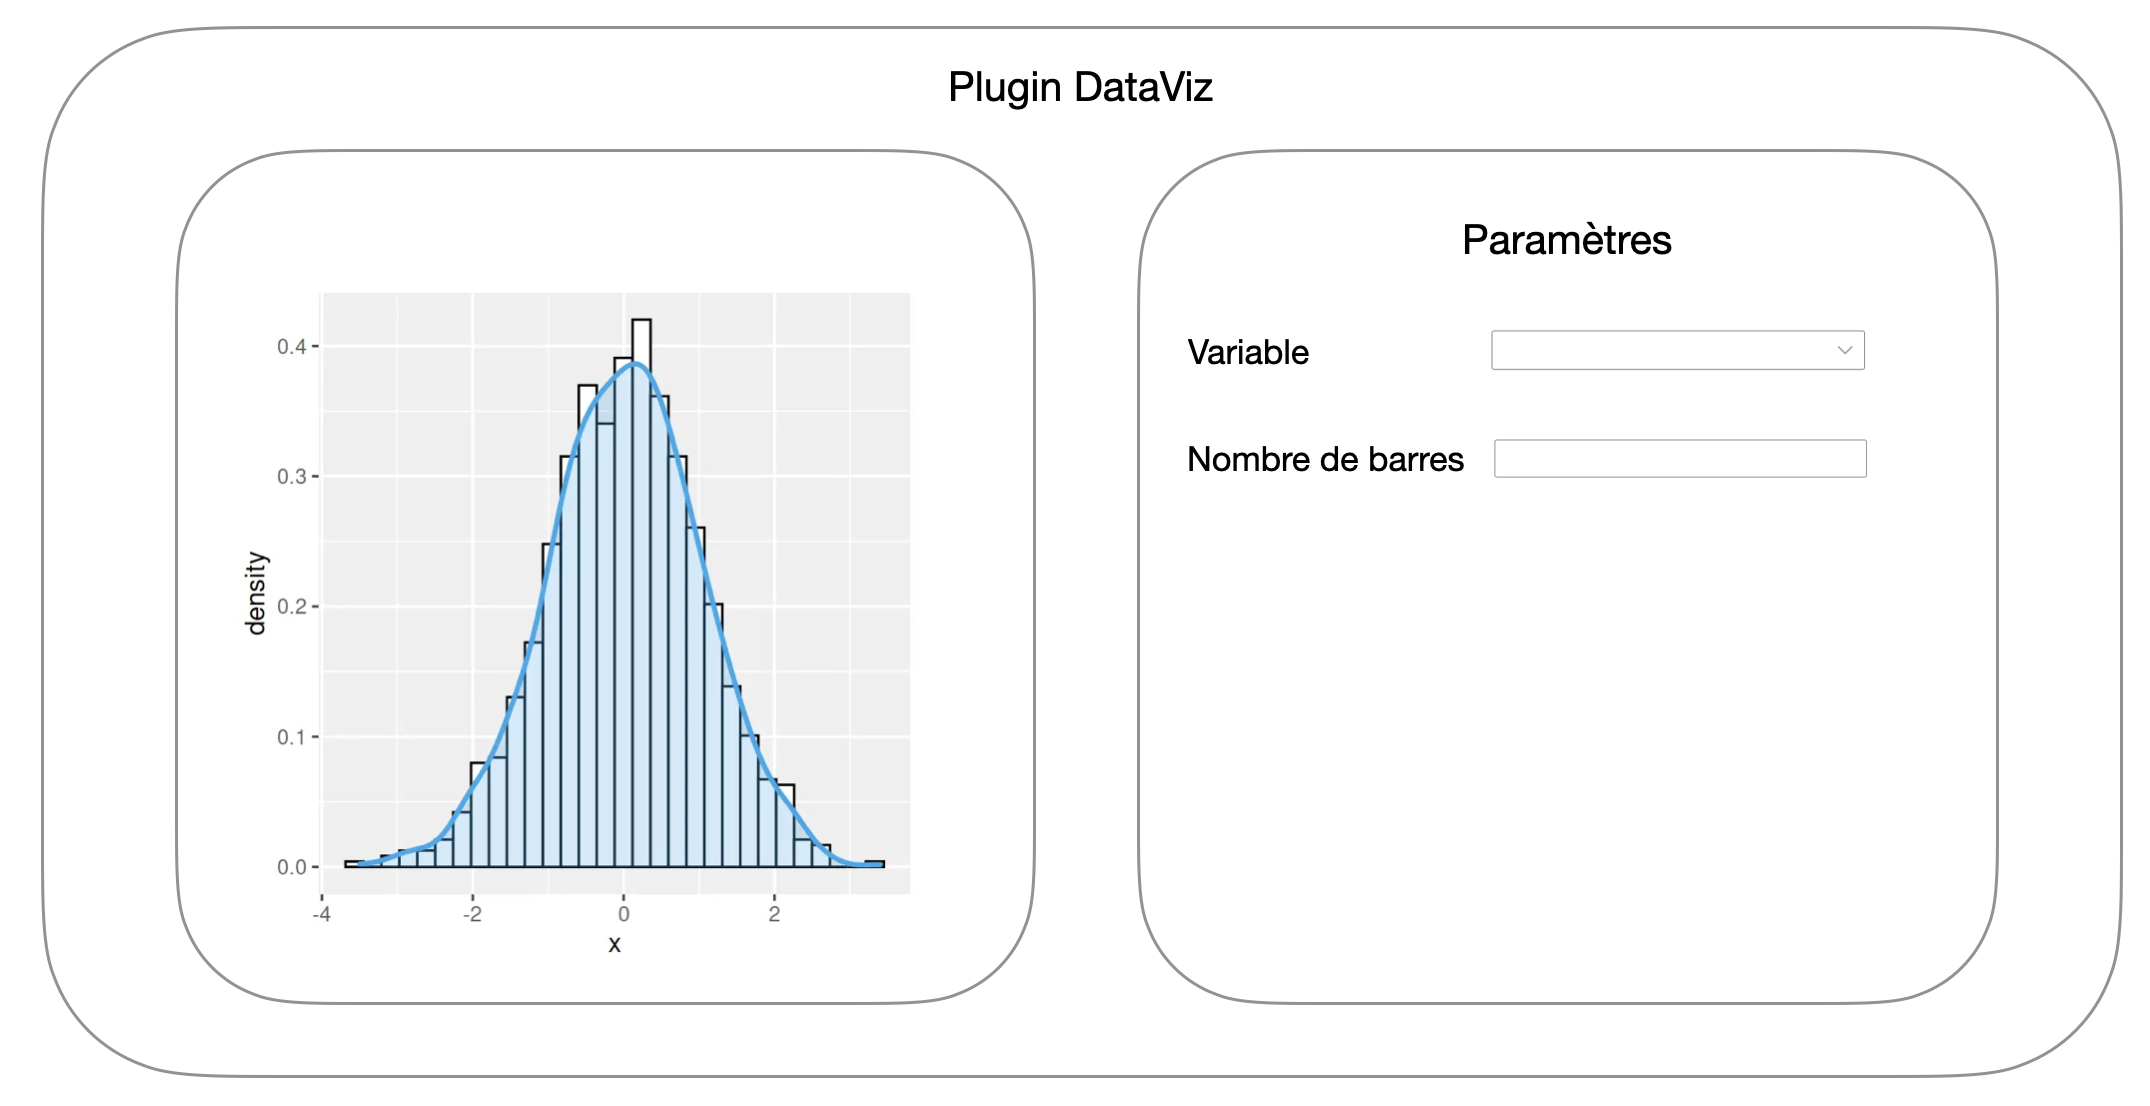
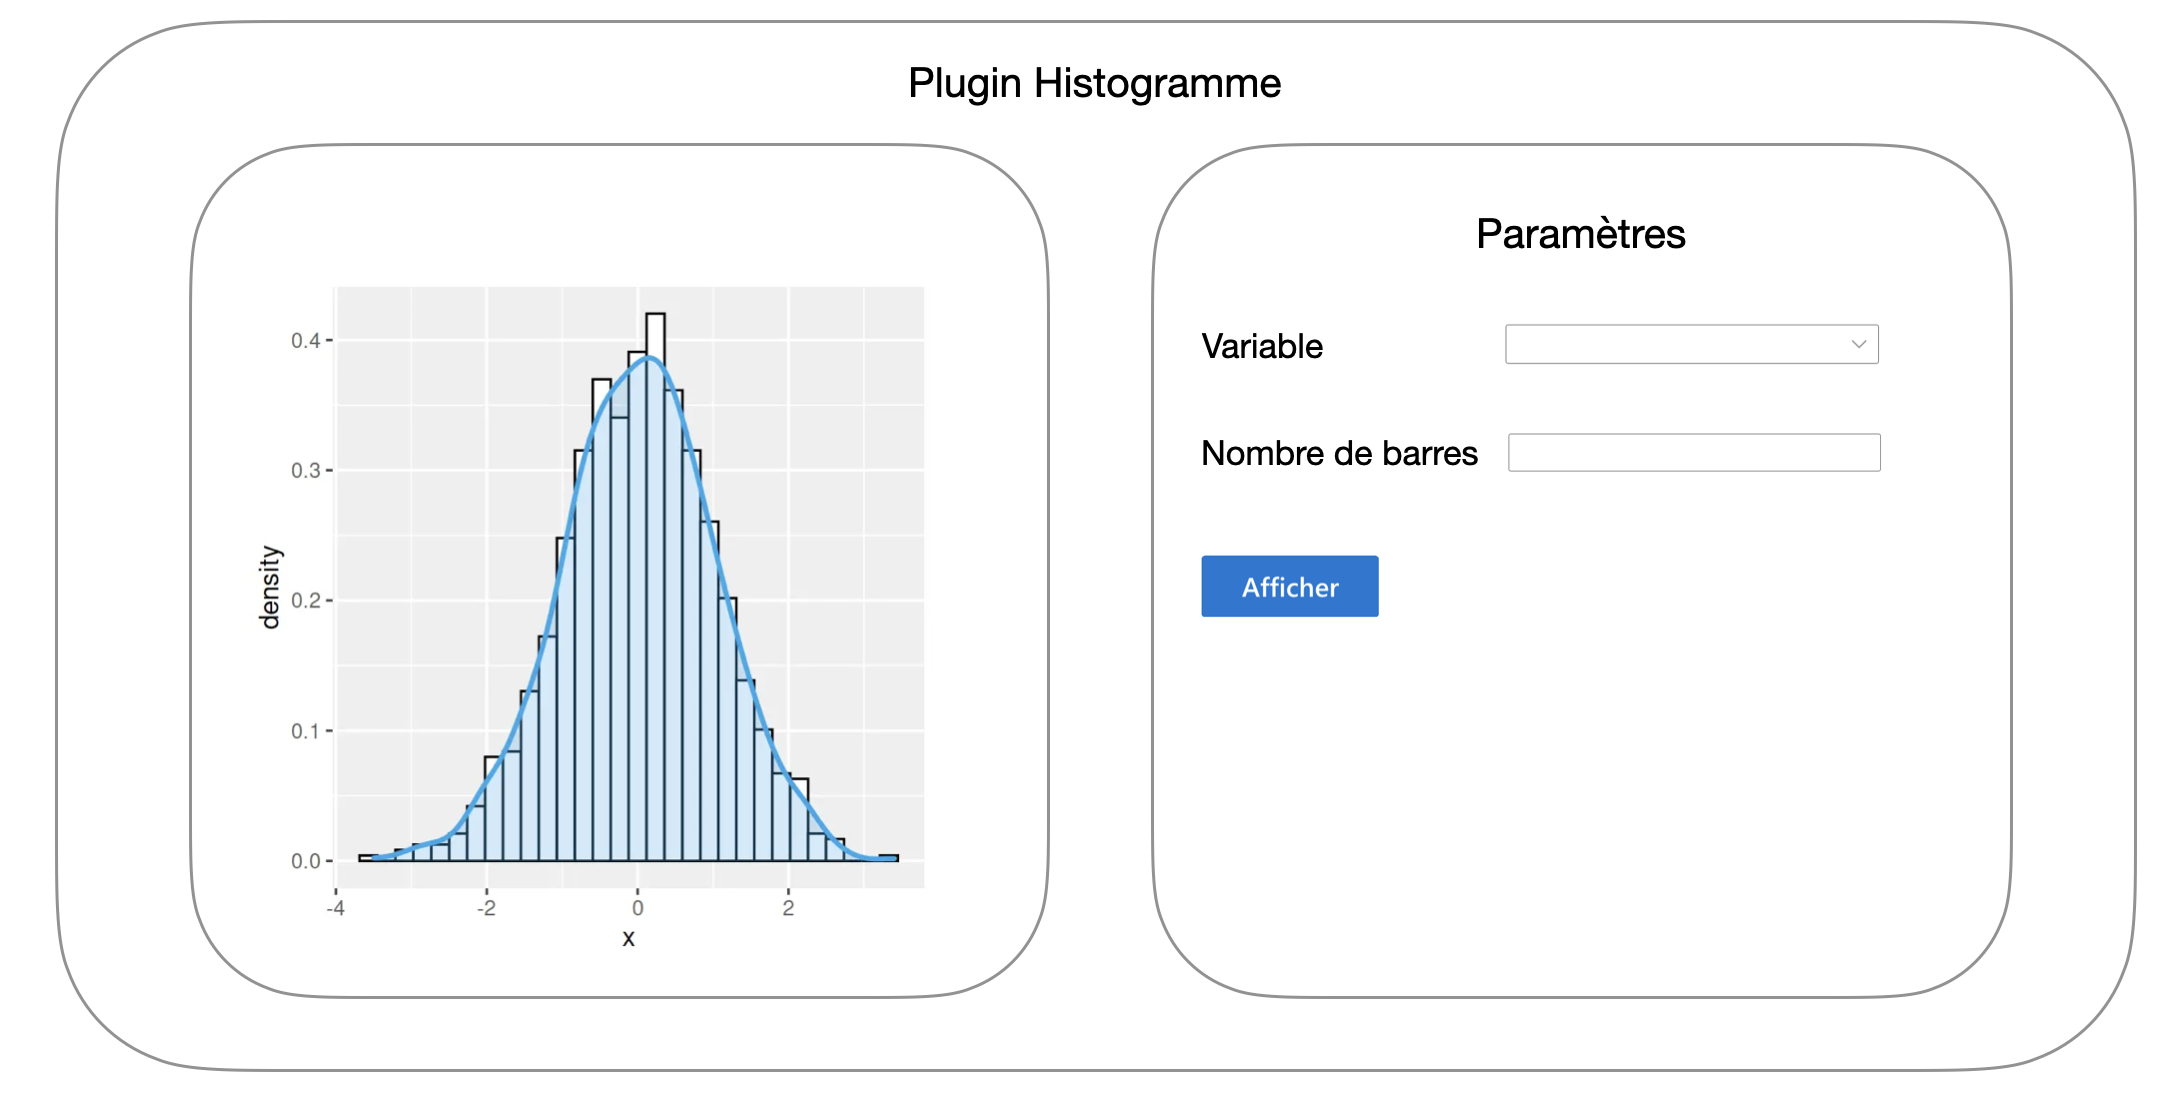
Update doc

diff --git a/home/fr/tutorials/2023-01-29_tutorial_create_plugins.md b/home/fr/tutorials/2023-01-29_tutorial_create_plugins.md
@@ -15,7 +15,7 @@ Nous remplirons le fichier de **traductions**, ce qui facilitera le **partage** 
 
 Après avoir **testé** notre plugin, nous le mettrons à disposition sur notre **dépôt git**.
 
-<a href="https://framagit.org/interhop/linkr/LinkR-content/-/raw/main/home/fr/tutorials/tutorial_create_plugins_intro.png" target = "_blank"><img src="tutorial_create_plugins_intro.png" alt="Tutorial plan" style="width:700px;" /></a>
+<a href="https://framagit.org/interhop/linkr/LinkR-content/-/raw/main/home/fr/tutorials/tutorial_create_plugins_intro.png" target = "_blank"><img src="https://framagit.org/interhop/linkr/LinkR-content/-/raw/main/home/fr/tutorials/tutorial_create_plugins_intro.png" alt="Tutorial plan" style="width:700px;" /></a>
 
 **Plan** :
 
@@ -40,7 +40,7 @@ Un plugin est un **script** composé de code écrit avec la librairie **Shiny** 
 
 Par exemple, le plugin 'Séries temporelles {dygraphs}' présenté ci-dessous permettra aux utilisateurs d'afficher les données de leurs patients sous forme de **séries temporelles**, à l'aide de la librairie R <a href="https://rstudio.github.io/dygraphs/" target="_blank">{dygraphs}</a>.
 
-<a href="https://framagit.org/interhop/linkr/LinkR-content/-/raw/main/home/fr/tutorials/tutorial_import_data_dygraphs_card.png" target = "_blank"><img src="tutorial_import_data_dygraphs_card.png" alt="Dygraphs plugin" style="width:300px;" /></a>
+<a href="https://framagit.org/interhop/linkr/LinkR-content/-/raw/main/home/fr/tutorials/tutorial_create_plugins_plugin_card.png" target = "_blank"><img src="https://framagit.org/interhop/linkr/LinkR-content/-/raw/main/home/fr/tutorials/tutorial_create_plugins_plugin_card.png" alt="Dygraphs plugin" style="width:300px;" /></a>
 
 <a href="https://framagit.org/interhop/linkr/LinkR/-/raw/master/man/figures/dygraphs_plugin.gif" target = "_blank"><img src="https://framagit.org/interhop/linkr/LinkR/-/raw/master/man/figures/dygraphs_plugin.gif" alt="Dygraphs plugin" style="width:1000px;" /></a>
 
@@ -50,7 +50,7 @@ Un plugin est composé de **trois parties** :
 - **Server** : il s'agit du *backend*, vous développerez ici la logique côté serveur du plugin : la manipulation des données etc
 - **Traductions** : il s'agit d'un fichier CSV qui comprendra les traductions de l'interface utilisateur
 
-Réfléchissons maintenant à ce que notre plugin sera capable de faire.
+Passons maintenant aux **spécifications** de notre plugin.
 
 <br /><hr />
 <h2 style = "text-align:center;">
@@ -72,7 +72,7 @@ Ensuite, à quoi devra ressembler mon **interface graphique** ?
 
 J'aimerais bien séparer l'écran en deux, à gauche on visualiserait mon **histogramme**, et à droite on pourrait régler les paramètres de ma figure, avec un menu déroulant pour **choisir la variable** et un champ pour choisir le **nombre de barres** sur mon histogramme.
 
-<a href="https://framagit.org/interhop/linkr/LinkR-content/-/raw/main/home/fr/tutorials/tutorial_create_plugins_plugin_schema.png" target = "_blank"><img src="tutorial_create_plugins_plugin_schema.png" alt="Schema of the plugin" style="width:700px;" /></a>
+<a href="https://framagit.org/interhop/linkr/LinkR-content/-/raw/main/home/fr/tutorials/tutorial_create_plugins_plugin_schema.png" target = "_blank"><img src="https://framagit.org/interhop/linkr/LinkR-content/-/raw/main/home/fr/tutorials/tutorial_create_plugins_plugin_schema.png" alt="Schema of the plugin" style="width:800px;" /></a>
 
 **Côté serveur** maintenant.
 
@@ -80,9 +80,9 @@ Un histogramme n'est pas adapté pour visualiser tout type de données : je pour
 
 Pour simplifier, je ne vais autoriser l'**affichage que des données numériques**. Je vais donc restreindre l'affichage à la variable *d$measurement*.
 
-Pour rappel, le modèle de données utilisé par LinkR est le modèle **<a href = "https://ohdsi.github.io/CommonDataModel/" target = "_blank">OMOP</a>**. Consultez cette page pour en savoir plus sur la table measurement. Il s'agit de la table qui comprend les données de laboratoires et les constantes physiologiques.
+Pour rappel, le modèle de données utilisé par LinkR est le modèle **<a href = "https://ohdsi.github.io/CommonDataModel/" target = "_blank">OMOP</a>**. Consultez <a href = "https://ohdsi.github.io/CommonDataModel/cdm60.html#MEASUREMENT">cette page</a> pour en savoir plus sur la table measurement. Il s'agit de la table qui comprend les données de **laboratoires** et les **constantes physiologiques**.
 
-Lorsque je vais changer la variable du nombre de barre de mon histogramme, les **modifications** devront être prises en compte **après validation**, pour ne pas réaliser de calculs inutiles. Je devrai également donner des bornes de valeurs possibles.
+Lorsque je vais changer la variable du **nombre de barres** de mon histogramme, les **modifications** devront être prises en compte **après validation**, pour ne pas réaliser de calculs inutiles. Je devrai également donner des bornes de valeurs possibles.
 
 Résumons donc les **spécifications** de notre plugin :
 
@@ -101,9 +101,29 @@ Nous voilà prêts pour **aller coder tout ça** !
 
 <h3><i class="fa fa-cogs" style="color:steelblue;"></i> Création du plugin</h3>
 
-Rendez-vous sur la page *Plugins > Données individuelles* puis sur l'onglet *Gestion de plugins*.
+Rendez-vous sur la page *Plugins > Données individuelles* puis sur l'onglet *Gestion des plugins*.
 
-*Screenshot*
+Appelez-le 'Histogramme' par exemple.
+
+<a href="https://framagit.org/interhop/linkr/LinkR-content/-/raw/main/home/fr/tutorials/tutorial_create_plugins_create_plugin.png" target = "_blank"><img src="https://framagit.org/interhop/linkr/LinkR-content/-/raw/main/home/fr/tutorials/tutorial_create_plugins_create_plugin.png" alt="Create a dataset" style="width:800px; border:dashed 1px black; margin:5px 0px 5px 0px;" /></a>
+
+Une fois le plugin créé, vous devriez le voir apparaître dans le tableau au milieu de la page.
+
+Sur la ligne correspondant à votre nouveau plugin, cliquez sur l’icône de rouages afin d’**accéder aux options** de votre plugin.
+
+<a href="https://framagit.org/interhop/linkr/LinkR-content/-/raw/main/home/fr/tutorials/tutorial_create_plugins_plugin_options.png" target = "_blank"><img src="https://framagit.org/interhop/linkr/LinkR-content/-/raw/main/home/fr/tutorials/tutorial_create_plugins_plugin_options.png" alt="Create a dataset" style="width:800px; border:dashed 1px black; margin:5px 0px 5px 0px;" /></a>
+
+Pour **en savoir plus sur les options**, cliquez sur le point d’interrogation en haut à droite de la page, puis sur *Options du plugin*.
+
+Nous allons maintenant pouvoir <strong>éditer le code</strong> de notre plugin. Rendez-vous pour cela dans l'onglet *Editer le code*.<br />
+
+L'éditeur auquel vous avez accès fonctionne comme une <strong>console R</strong>, exécutez le code en cliquant sur <em>Exécuter</em> ou en utilisant les raccourcis :
+<ul>
+<li>CMD/CTRL + SHIFT + ENTER : exécute l'ensemble du code</li>
+<li>CMD/CTRL + ENTER : exécute le code sélectionné</li>
+<li>CMD/CTRL + SHIFT + C : commente le code sélectionné</li>
+</ul><br />
+Pensez à sauvegarder votre code. Vous pouvez également utiliser le raccourci CMD/CTRL + S.
 
 <h3><i class="fa fa-desktop" style="color:steelblue;"></i> UI - Interface utilisateur / frontend</h3>
 
